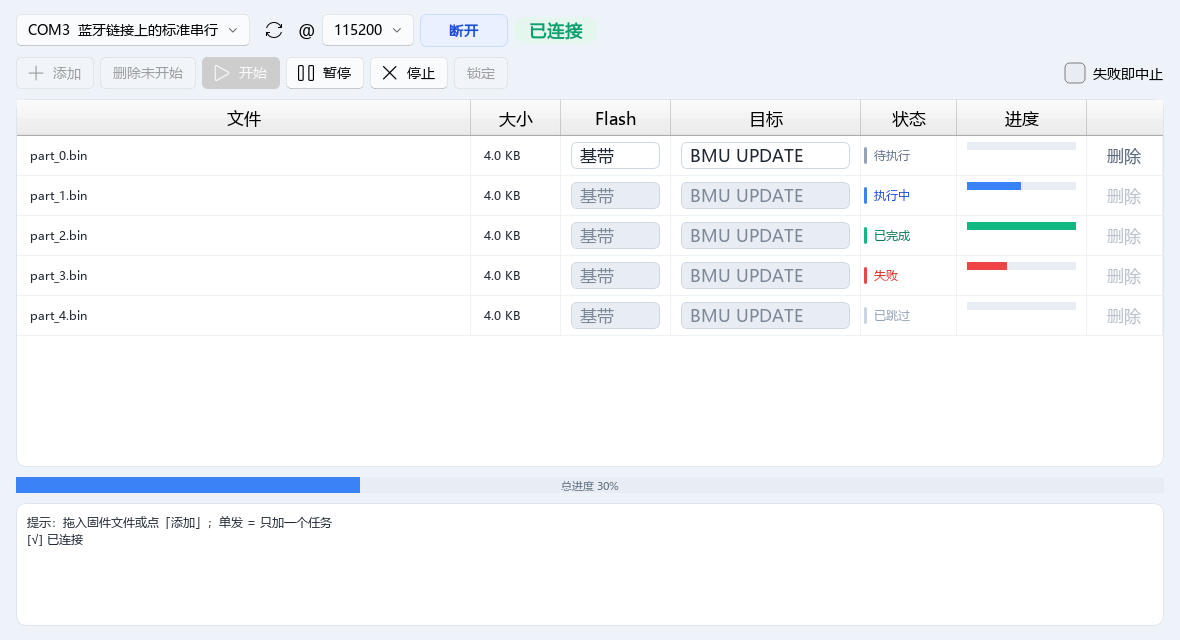
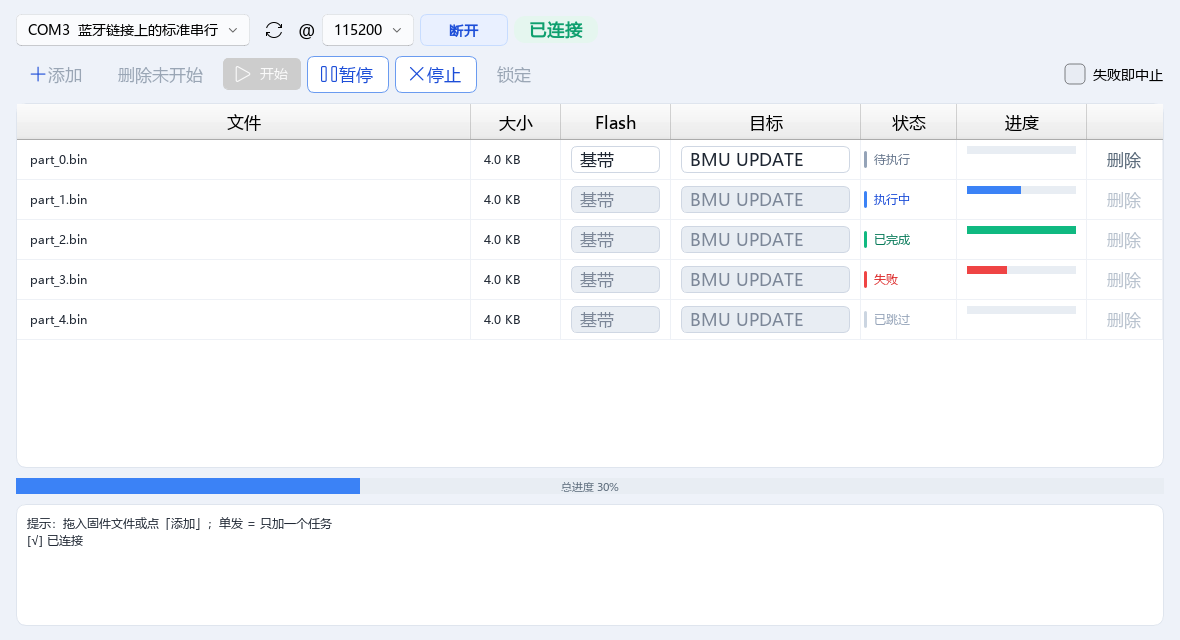
style(gui-ng): 工具条按钮态与配色收敛（浅色蓝描边/深色暖米）+ 按钮尺寸修复
- 修「打开/断开」尺寸跳变：固定 88x32（原生自绘 32px vs QSS 33px，切换跳 1px）
- 工具条按钮换原生 QPushButton + outline QSS：qfluentwidgets 自绘按钮套 QSS 会
  「自绘 + QSS 各画一次」导致文字重影
- 最终配色（经 5 候选选型，对比图 docs/gui_ng/button_color_candidates.png）：
  浅色 = 白底 + 蓝描边 #6a9bf0 + 蓝字/蓝图标 #1d4ed8（幽灵按钮）
  深色 = 暖米底 #33301f + 暖金字/图标 #ffe0a3（冷暖对比）
  disabled：浅冷灰 #eef2f9 / 深暖黑 #242216
- 图标随主题着色（FluentIcon.icon(color=...)），避免暖底挂冷图标
- 补 warn 语义色位（琥珀 #b45309/#fbbf24，预留未使用）
- 过程说明：曾误判「深色整体提亮」并回退，相关往返已并入本提交

diff --git a/uicmp/apps/transfer_app.py b/uicmp/apps/transfer_app.py
@@ -172,15 +172,19 @@ class TransferApp(QDialog):
         v.addLayout(self._wrap(self.conn))
 
         # ---- 工具条：左（动作组） ··· 右（策略）
+        # ⚠ 这几个用**原生 QPushButton** 而不是 qfluentwidgets PushButton：
+        # qfluentwidgets 按钮是自绘的，套 QSS 会「自绘一次 + QSS 再画一次」
+        # → 文字重影（实测）。原生按钮 + QSS 是唯一干净的路。
+        # 图标经 FluentIcon.icon() 取 QIcon，视觉与库内一致。
         tools = QHBoxLayout()
         tools.setSpacing(theme.GAP_SM)
-        self.btn_add = PushButton(FIF.ADD, '添加')
-        self.btn_del_pending = PushButton('删除未开始')
-        self.btn_start = PrimaryPushButton(FIF.PLAY, '开始')
+        self.btn_add = QPushButton(self._icon(FIF.ADD), '添加')
+        self.btn_del_pending = QPushButton('删除未开始')
+        self.btn_start = PrimaryPushButton(FIF.PLAY, '开始')   # 主按钮留原生自绘
         # 暂停/继续 = 同一位置的双面按钮（省一个按钮、少一步认知）
-        self.btn_pause = PushButton(FIF.PAUSE, '暂停')
-        self.btn_stop = PushButton(FIF.CLOSE, '停止')
-        self.btn_lock = PushButton('锁定')
+        self.btn_pause = QPushButton(self._icon(FIF.PAUSE), '暂停')
+        self.btn_stop = QPushButton(self._icon(FIF.CLOSE), '停止')
+        self.btn_lock = QPushButton('锁定')
         for w in (self.btn_add, self.btn_del_pending, self.btn_start,
                   self.btn_pause, self.btn_stop, self.btn_lock):
             tools.addWidget(w)
@@ -248,12 +252,12 @@ class TransferApp(QDialog):
         if self._paused:
             self.queue.pause()
             self.btn_pause.setText('继续')
-            self.btn_pause.setIcon(FIF.PLAY)
+            self.btn_pause.setIcon(self._icon(FIF.PLAY))
             self.log('已暂停（当前帧完成后生效）')
         else:
             self.queue.resume()
             self.btn_pause.setText('暂停')
-            self.btn_pause.setIcon(FIF.PAUSE)
+            self.btn_pause.setIcon(self._icon(FIF.PAUSE))
             self.log('已继续')
 
     def _stop(self):
@@ -307,11 +311,7 @@ class TransferApp(QDialog):
     def _toggle_lock(self):
         self._locked = not self._locked
         self.btn_lock.setText('解锁' if self._locked else '锁定')
-        # 激活态：锁定后按钮变主色底（"点了之后有变化"的明确反馈）
-        if self._locked:
-            self.btn_lock.setStyleSheet(theme.primary_active_qss(self._dark))
-        else:
-            self.btn_lock.setStyleSheet('')
+        self._apply_toolbar_style()      # 锁定按钮切激活/普通样式
         self._refresh_table()
 
     # ------------------------------------------------------------ 调度
@@ -340,7 +340,7 @@ class TransferApp(QDialog):
             # 队列结束：暂停按钮复位成「暂停」面
             self._paused = False
             self.btn_pause.setText('暂停')
-            self.btn_pause.setIcon(FIF.PAUSE)
+            self.btn_pause.setIcon(self._icon(FIF.PAUSE))
 
     def _on_task_changed(self, idx):
         if idx < 0:
@@ -489,6 +489,33 @@ class TransferApp(QDialog):
                         if os.path.isfile(u.toLocalFile())])
 
     # ------------------------------------------------------------ 主题
+    def _icon(self, fif):
+        """工具条按钮图标：与暖米按钮同族的暖色（深色暖金 / 浅色暖褐金）。
+        不这么做的话暖底上会挂着蓝/黑图标，和文字不同族（跳）。"""
+        return fif.icon(color=theme.BTN_ICON_D if self._dark else theme.BTN_ICON)
+
+    def _apply_toolbar_style(self):
+        """工具条非主按钮统一切到 outline QSS。
+
+        ⚠ 为什么不用 qfluentwidgets 原生按钮的深色默认样式：它的底色是
+        半透明白（几乎与页底同色），深色下按钮"糊"在背景里、边界不可见
+        （用户反馈"按钮对比度不够"）。outline QSS 的底色/边框由我们
+        控制，深浅两套都有明确边界 + 三态（hover/pressed/disabled）。
+        深色底=暖米（拍板），故图标同步换暖金色。
+        """
+        qss = theme.outline_button_qss(self._dark)
+        for w in (self.btn_add, self.btn_del_pending, self.btn_pause,
+                  self.btn_stop):
+            w.setStyleSheet(qss)
+        # 锁定按钮有激活态，单独判
+        self.btn_lock.setStyleSheet(
+            theme.primary_active_qss(self._dark) if self._locked else qss)
+        # 图标随主题着色（锁定/解锁态都是同一按钮，图标无）
+        self.btn_add.setIcon(self._icon(FIF.ADD))
+        self.btn_stop.setIcon(self._icon(FIF.CLOSE))
+        paused_fif = FIF.PLAY if self._paused else FIF.PAUSE
+        self.btn_pause.setIcon(self._icon(paused_fif))
+
     def apply_theme(self, dark):
         """⚠ 约定：任何控件重建之后都要重调本函数。
         表格单元格内的 combo/进度条/按钮在 _refresh_table 重建时按当时
@@ -496,6 +523,7 @@ class TransferApp(QDialog):
         self._dark = dark
         theme.apply_theme(self, dark)
         self.conn.set_dark(dark)
+        self._apply_toolbar_style()
         self.table.setStyleSheet(
             theme.table_qss(dark) + theme.scrollbar_qss(dark))
         self.drop_area.setStyleSheet(theme.drop_area_qss(dark))

diff --git a/uicmp/guiwidgets/theme.py b/uicmp/guiwidgets/theme.py
@@ -58,7 +58,18 @@ C_GRAY_BG_D    = '#252e3a'
 C_BUSY         = '#5b6b7b'   # 进行中（蓝灰，区别于主色蓝）
 C_BUSY_D       = '#9fb0bf'
 
+C_WARN         = '#b45309'   # 警告/需注意（琥珀）——2026-09-21 补的语义位
+C_WARN_D       = '#fbbf24'
+C_WARN_BG      = '#fef3c7'
+C_WARN_BG_D    = '#3a2a08'
+
+# 控件按钮的图标色（与暖米按钮底同族，避免暖底挂冷色图标）
+BTN_ICON_D     = '#ffe0a3'   # 深色（暖金）
+BTN_ICON       = '#1d4ed8'   # 浅色（与蓝描边同族）
+
 # 面板与文字
+# ⚠ 深色值 2026-09-21 整体提亮一档：原 #0d1117/#161c26 过深，
+# 卡片与页底对比不足（用户反馈）。现在层次靠"亮度差"而非近黑。
 C_WINDOW       = '#eef2f9'   # 顶层窗口底
 C_WINDOW_D     = '#0d1117'
 C_CARD         = '#ffffff'   # 卡片底
@@ -88,16 +99,18 @@ STATE_STRIPE = {           # (浅色, 深色)
     'running': ('#3b82f6', '#4c8dff'),
     'done':    ('#10b981', '#2fc48a'),
     'failed':  ('#ef4444', '#f2555a'),
-    'pending': ('#94a3b8', '#64748b'),
-    'skipped': ('#cbd5e1', '#4a5561'),
+    'warn':    ('#f59e0b', '#fbbf24'),     # 警告/重试中（暖色位）
+    'pending': ('#94a3b8', '#7c8b9e'),
+    'skipped': ('#cbd5e1', '#4f5d6d'),
     'busy':    ('#60a5fa', '#7aa7ff'),
 }
 STATE_TEXT = {             # (浅色, 深色)——文字对比度 4.5:1+
     'running': ('#1d4ed8', '#7aa7ff'),
     'done':    ('#047857', '#34d399'),
     'failed':  ('#dc2626', '#fb7185'),
-    'pending': ('#64748b', '#8d99a8'),
-    'skipped': ('#94a3b8', '#5b6b7b'),
+    'warn':    ('#b45309', '#fbbf24'),
+    'pending': ('#64748b', '#9fb0bf'),
+    'skipped': ('#94a3b8', '#7c8b9e'),
     'busy':    ('#1d4ed8', '#7aa7ff'),
 }
 
@@ -114,12 +127,13 @@ def state_text(kind, dark):
 
 # ---------------------------------------------------------------- QSS 工厂
 def chip_style(kind, dark):
-    """胶囊样式。kind ∈ {blue, purple, green, red, gray}。"""
+    """胶囊样式。kind ∈ {blue, purple, green, red, gray, warn}。"""
     pal = {
         'blue':   (C_PRIMARY, C_PRIMARY_D, C_PRIMARY_BG, C_PRIMARY_BG_D),
         'purple': (C_PURPLE,  C_PURPLE_D,  C_PURPLE_BG,  C_PURPLE_BG_D),
         'green':  (C_GREEN,   C_GREEN_D,   C_GREEN_BG,   C_GREEN_BG_D),
         'red':    (C_RED,     C_RED_D,     C_RED_BG,     C_RED_BG_D),
+        'warn':   (C_WARN,    C_WARN_D,    C_WARN_BG,    C_WARN_BG_D),
         'gray':   (C_GRAY,    C_GRAY_D,    C_GRAY_BG,    C_GRAY_BG_D),
     }[kind]
     fg = pal[1] if dark else pal[0]
@@ -129,12 +143,13 @@ def chip_style(kind, dark):
 
 
 def badge_style(kind, dark):
-    """状态徽章样式。kind ∈ {ok, run, busy, err, gray}。"""
+    """状态徽章样式。kind ∈ {ok, run, busy, err, warn, gray}。"""
     pal = {
         'ok':   (C_GREEN, C_GREEN_D, C_GREEN_BG, C_GREEN_BG_D),
         'run':  (C_PRIMARY, C_PRIMARY_D, C_PRIMARY_BG, C_PRIMARY_BG_D),
         'busy': (C_BUSY,  C_BUSY_D,  C_GRAY_BG,   C_GRAY_BG_D),
         'err':  (C_RED,   C_RED_D,   C_RED_BG,    C_RED_BG_D),
+        'warn': (C_WARN,  C_WARN_D,  C_WARN_BG,   C_WARN_BG_D),
         'gray': (C_GRAY,  C_GRAY_D,  C_GRAY_BG,   C_GRAY_BG_D),
     }[kind]
     fg = pal[1] if dark else pal[0]
@@ -364,7 +379,7 @@ def primary_tint_qss(dark):
         color: %(fg)s;
         border: 1px solid %(border)s;
         border-radius: 7px;
-        padding: 6px 13px;
+        padding: 0 13px;
         font-weight: 600;
     }
     QPushButton:hover { border-color: %(fg)s; }
@@ -395,14 +410,20 @@ def table_button_qss(dark):
 
 
 def outline_button_qss(dark):
-    """工具条按钮（白底描边 + hover 淡蓝 + **pressed 下沉**）。"""
-    bg = _c(dark, C_CARD, '#1d2530')
-    border = _c(dark, '#cfd7e3', '#2a3442')
-    text = _c(dark, C_TEXT, C_TEXT_D)
-    hover_bg = _c(dark, '#eef4ff', '#1b2a47')
-    hover_border = _c(dark, '#8fb5ff', '#4c8dff')
-    press_bg = _c(dark, '#dbeafe', '#24365c')
-    press_border = _c(dark, '#6a9bf0', '#3b6fd4')
+    """工具条按钮：浅色**蓝描边**（白底 + 主色描边）/ 深色**暖米**。
+
+    浅色（2026-09-21 最终拍板）：白底 #ffffff + 蓝描边 #6a9bf0 + 蓝字
+    #1d4ed8 —— 幽灵按钮，清爽且与冷蓝主色系一致。
+    深色：暖米底 #33301f + 暖金字 #ffe0a3（与近黑页面形成冷暖对比）。
+    两套底色都刻意亮于所在页底，保证控件边界可见（对比度诉求）。
+    """
+    bg = _c(dark, '#ffffff', '#33301f')
+    border = _c(dark, '#6a9bf0', '#4f4931')
+    text = _c(dark, '#1d4ed8', '#ffe0a3')
+    hover_bg = _c(dark, '#eef4ff', '#3f3a25')
+    hover_border = _c(dark, '#4c8dff', '#6b6349')
+    press_bg = _c(dark, '#dbeafe', '#2a281a')
+    press_border = _c(dark, '#3b82f6', '#59522f')
     return '''
     QPushButton {
         background: %(bg)s;
@@ -416,8 +437,8 @@ def outline_button_qss(dark):
     QPushButton:disabled { color: %(dis)s; border-color: %(disbg)s; background: %(disbg)s; }
     ''' % dict(bg=bg, border=border, text=text, hb=hover_bg, hb2=hover_border,
                pb=press_bg, pb2=press_border,
-               dis=_c(dark, '#9aa6b5', '#5b6b7b'),
-               disbg=_c(dark, '#eef2f9', '#141a22'))
+               dis=_c(dark, '#9aa6b5', '#6b6349'),
+               disbg=_c(dark, '#eef2f9', '#242216'))
 
 
 def drop_area_qss(dark):

diff --git a/tools/shot_button_colors.py b/tools/shot_button_colors.py
@@ -1,0 +1,116 @@
+# -*- coding: utf-8 -*-
+r"""按钮配色选型图：5 个候选 × 浅/深两组（工具条按钮实际尺寸与形态）。
+
+用途：配色拍板用。选定后把对应的值写进 theme.outline_button_qss。
+跑法：
+  C:\hkj\anaconda3\envs\pyqt_side_all_0328\python.exe tools\shot_button_colors.py
+"""
+import os
+import sys
+
+os.environ.setdefault('QT_QPA_PLATFORM', 'offscreen')
+_ROOT = os.path.dirname(os.path.dirname(os.path.abspath(__file__)))
+if _ROOT not in sys.path:
+    sys.path.insert(0, _ROOT)
+
+from PyQt5.QtCore import Qt
+from PyQt5.QtWidgets import (QApplication, QDialog, QVBoxLayout, QHBoxLayout,
+                             QFrame, QLabel, QPushButton)
+from PyQt5.QtGui import QFontDatabase
+
+OUT = os.path.join(_ROOT, 'docs', 'gui_ng')
+os.makedirs(OUT, exist_ok=True)
+
+
+def cand_qss(bg, border, fg, hover, press):
+    return ('''
+    QPushButton {
+        background: %s; border: 1px solid %s; border-radius: 7px;
+        padding: 6px 13px; color: %s; font-size: 12px;
+    }
+    QPushButton:hover { background: %s; }
+    QPushButton:pressed { background: %s; }
+    ''' % (bg, border, fg, hover, press))
+
+
+# (名称, 说明, 浅色参数, 深色参数)
+#   浅色: (底, 边框, 字, hover, press)  深色: 同
+CANDS = [
+    ('A 冷蓝灰', '带蓝的灰，中性但有色相',
+     ('#f4f7fc', '#c3cede', '#2c3a52', '#e6eefa', '#dbe6f6'),
+     ('#2a3145', '#3f4a63', '#dce4f2', '#33405c', '#27303f')),
+    ('B 深蓝实', '蓝底实心，和主色同族',
+     ('#e8f1ff', '#b8d4ff', '#1d4ed8', '#d7e8ff', '#c7ddff'),
+     ('#1e3a5f', '#33608f', '#cfe2ff', '#254a75', '#18304f')),
+    ('C 蓝描边', '暗底 + 主色描边，轻但清楚',
+     ('#ffffff', '#6a9bf0', '#1d4ed8', '#eef4ff', '#dbeafe'),
+     ('#141c26', '#4c8dff', '#8ab4ff', '#1b2a47', '#16243c')),
+    ('D 暖米', '暖色对照（与蓝主色易冲突）',
+     ('#fdf6e3', '#ecd9a8', '#8a6d1f', '#f8eecd', '#f2e2b5'),
+     ('#33301f', '#4f4931', '#ffe0a3', '#3f3a25', '#2a281a')),
+    ('E 现状', '当前值（中性抬亮灰）',
+     ('#ffffff', '#cfd7e3', '#1f2733', '#eef4ff', '#dbeafe'),
+     ('#2a3441', '#3d4a5c', '#e6edf3', '#26385e', '#2e4573')),
+]
+
+BTN_TEXTS = ['添加', '暂停', '停止', '锁定']
+
+
+class Preview(QDialog):
+    def __init__(self):
+        super(Preview, self).__init__()
+        self.setObjectName('Preview')
+        root = QVBoxLayout(self)
+        root.setContentsMargins(14, 12, 14, 12)
+        root.setSpacing(8)
+
+        root.addWidget(self._section('深色模式（页底 #0d1117）', '#0d1117', dark=True))
+        root.addWidget(self._section('浅色模式（页底 #eef2f9）', '#eef2f9', dark=False))
+
+    def _section(self, title, page_bg, dark):
+        frame = QFrame()
+        frame.setStyleSheet('QFrame{background:%s; border-radius:10px;}' % page_bg)
+        v = QVBoxLayout(frame)
+        v.setContentsMargins(12, 10, 12, 10)
+        v.setSpacing(6)
+        lb = QLabel(title)
+        lb.setStyleSheet('color:%s; font-size:12px; font-weight:600;'
+                         % ('#8d99a8' if dark else '#5b6b7b'))
+        v.addWidget(lb)
+        for name, desc, light, darkp in CANDS:
+            row = QHBoxLayout()
+            row.setSpacing(8)
+            tag = QLabel('%s · %s' % (name, desc))
+            tag.setFixedWidth(300)
+            tag.setStyleSheet('color:%s; font-size:12px;'
+                              % ('#9fb0bf' if dark else '#64748b'))
+            row.addWidget(tag)
+            params = darkp if dark else light
+            qss = cand_qss(*params)
+            for t in BTN_TEXTS:
+                b = QPushButton(t)
+                b.setStyleSheet(qss)
+                b.setFixedWidth(74)
+                row.addWidget(b)
+            row.addStretch(1)
+            v.addLayout(row)
+        return frame
+
+
+def main():
+    app = QApplication(sys.argv)
+    QFontDatabase.addApplicationFont('C:/Windows/Fonts/msyh.ttc')
+    w = Preview()
+    w.setStyleSheet('Preview{background:#f0f2f6;}')
+    w.show()
+    for _ in range(5):
+        app.processEvents()
+    w.adjustSize()
+    app.processEvents()
+    p = os.path.join(OUT, 'button_color_candidates.png')
+    w.grab().save(p)
+    print('saved', p)
+
+
+if __name__ == '__main__':
+    main()

diff --git a/tools/smoke_theme.py b/tools/smoke_theme.py
@@ -56,7 +56,8 @@ def main():
     for dark in (False, True, False, True):
         theme.apply_theme(w, dark)
         bg = _card_bg(w.card)
-        expect = '#161c26' if dark else '#ffffff'
+        # 期望值从 theme 取（避免色板调整后测试写死过期）
+        expect = theme.C_CARD_D if dark else theme.C_CARD
         assert bg == expect, '卡片底色不符: dark=%s got=%s want=%s' % (dark, bg, expect)
         assert 'background' in w.styleSheet(), '窗口 QSS 缺背景'
         print('dark=%-5s card_bg=%s  label_font=%s' % (dark, bg, w.lb.font().family()))

diff --git a/uicmp/guiwidgets/common.py b/uicmp/guiwidgets/common.py
@@ -38,7 +38,9 @@ class ConnectionBar(QWidget):
         self.combo_baud = ComboBox()
         self.combo_baud.addItems(bauds)
         self.btn_open = PrimaryPushButton('打开')
-        self.btn_open.setFixedWidth(88)
+        # ⚠ 固定尺寸：原生自绘（32px）与 QSS tint 态（33px）高度算法不同，
+        # 不固定的话「打开」⇄「断开」切换时按钮会跳 1px（实测 bug）
+        self.btn_open.setFixedSize(88, 32)
         self.badge = badge('未连接', 'gray', dark)
 
         lay.addWidget(self.combo_port, 0)
